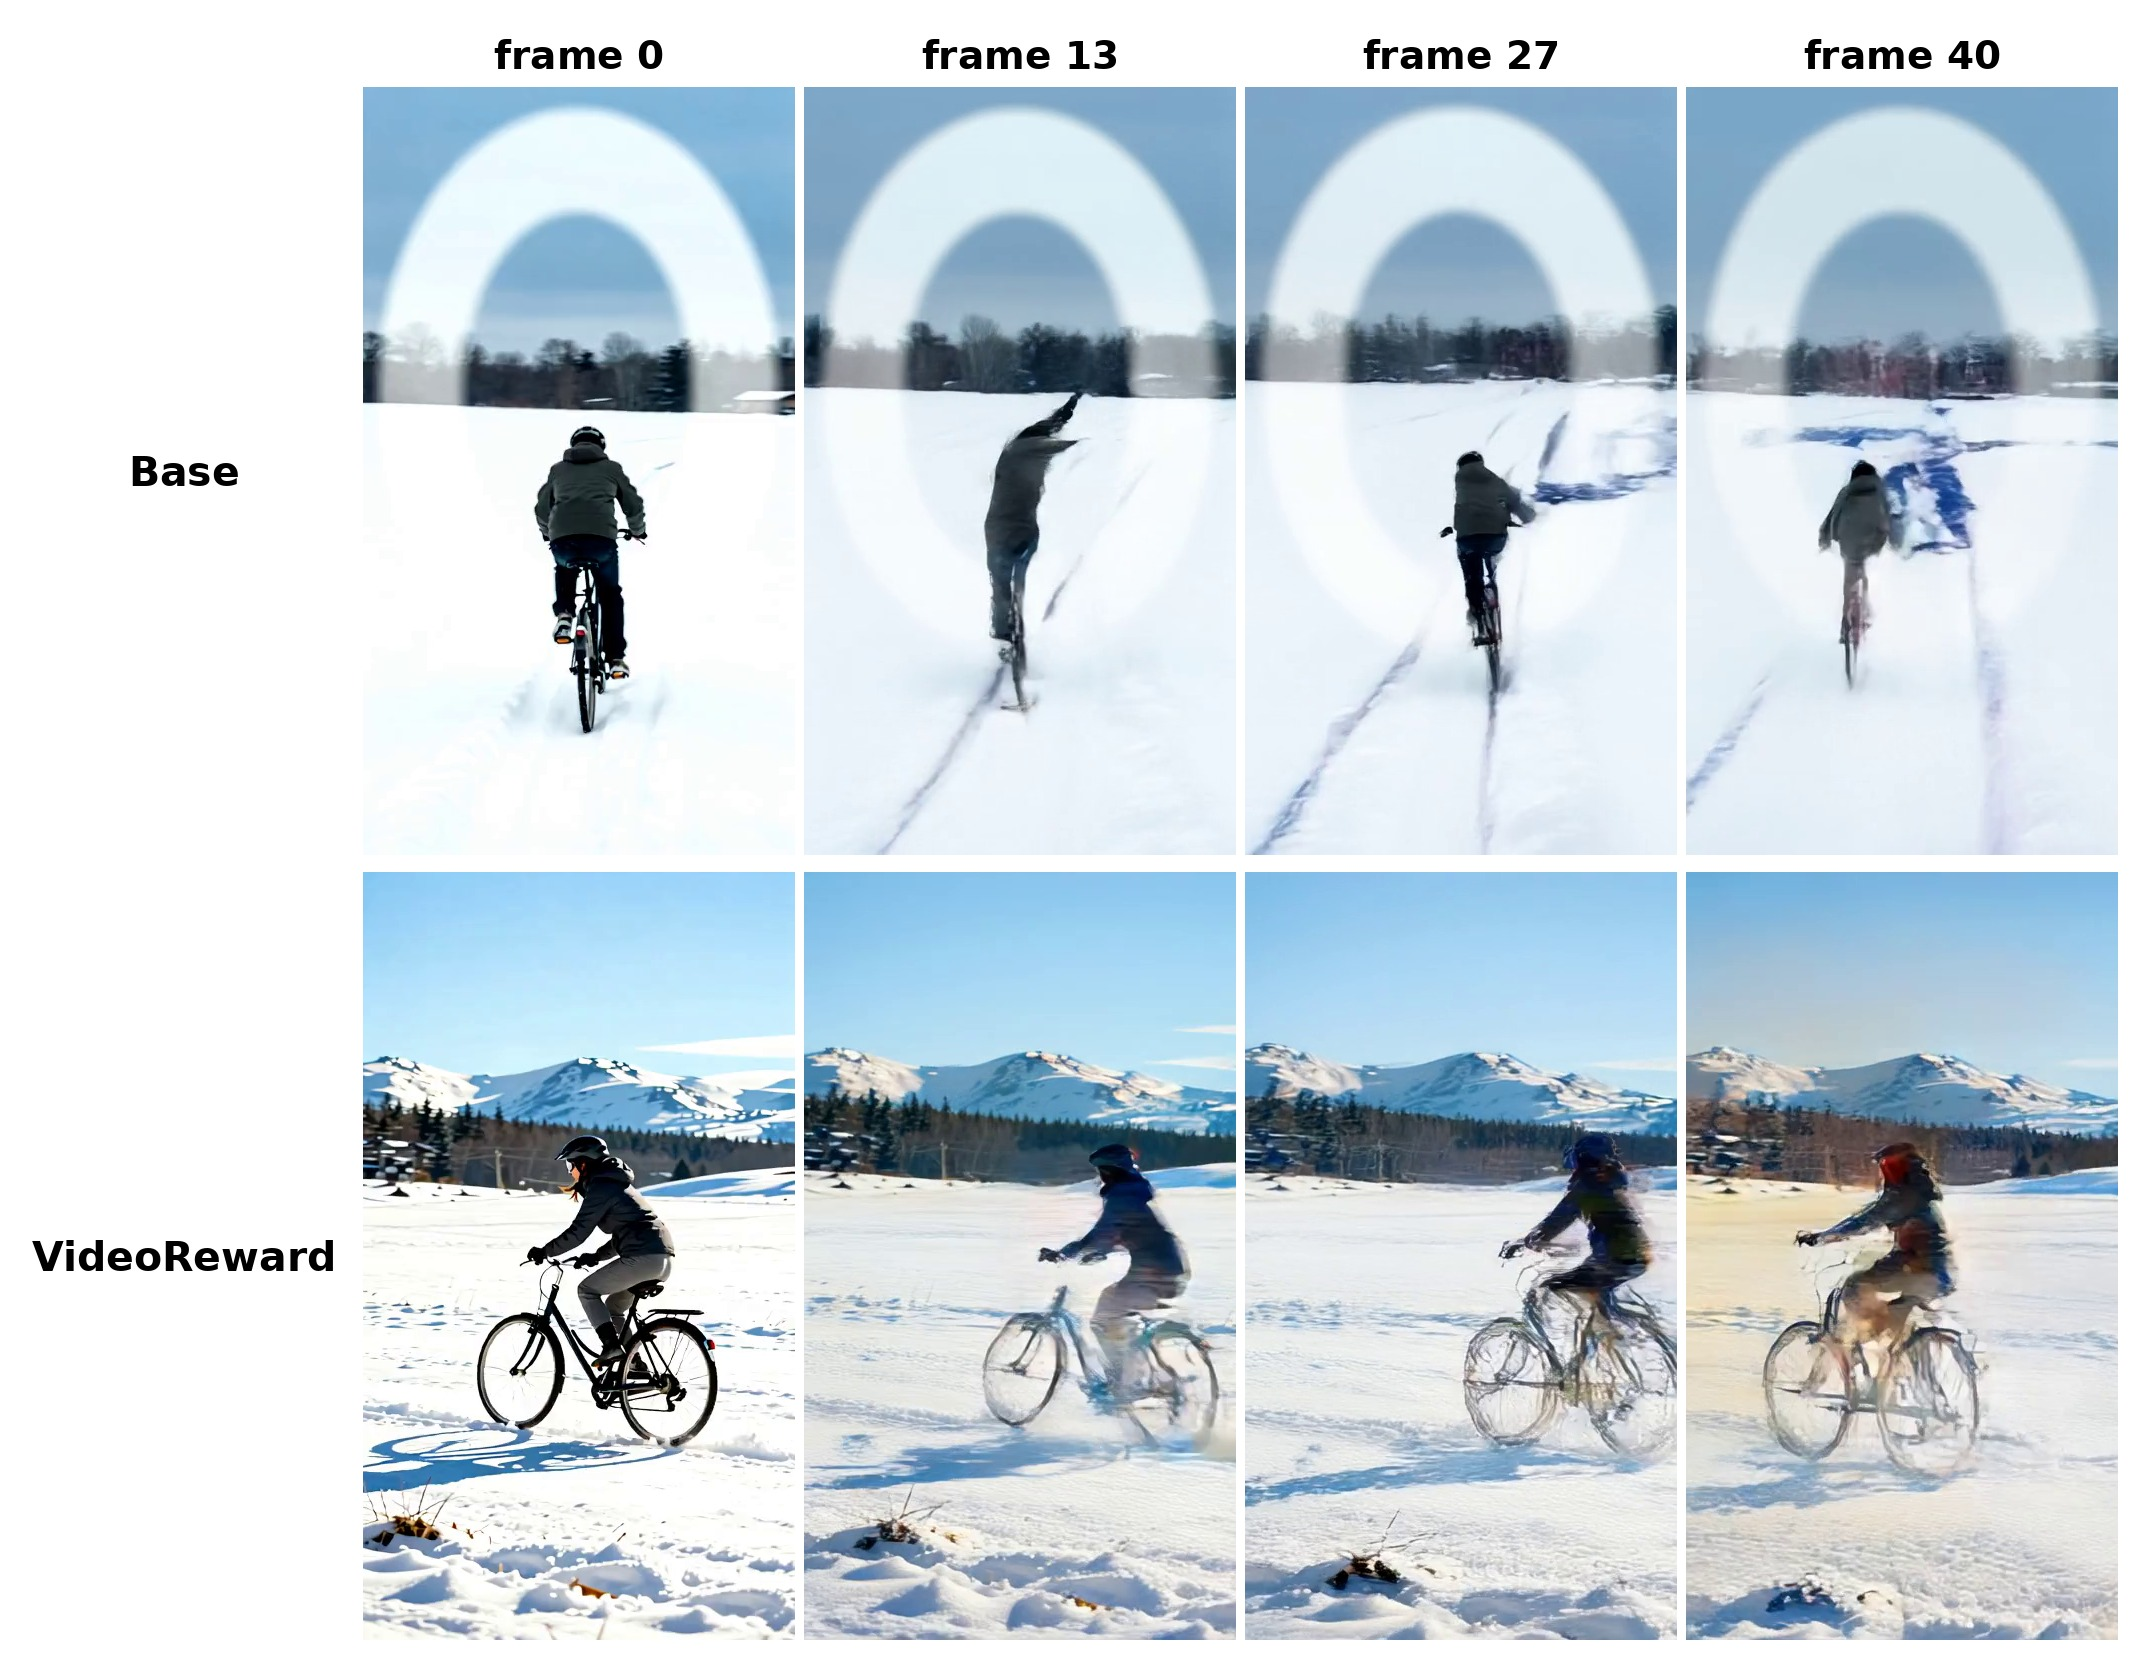
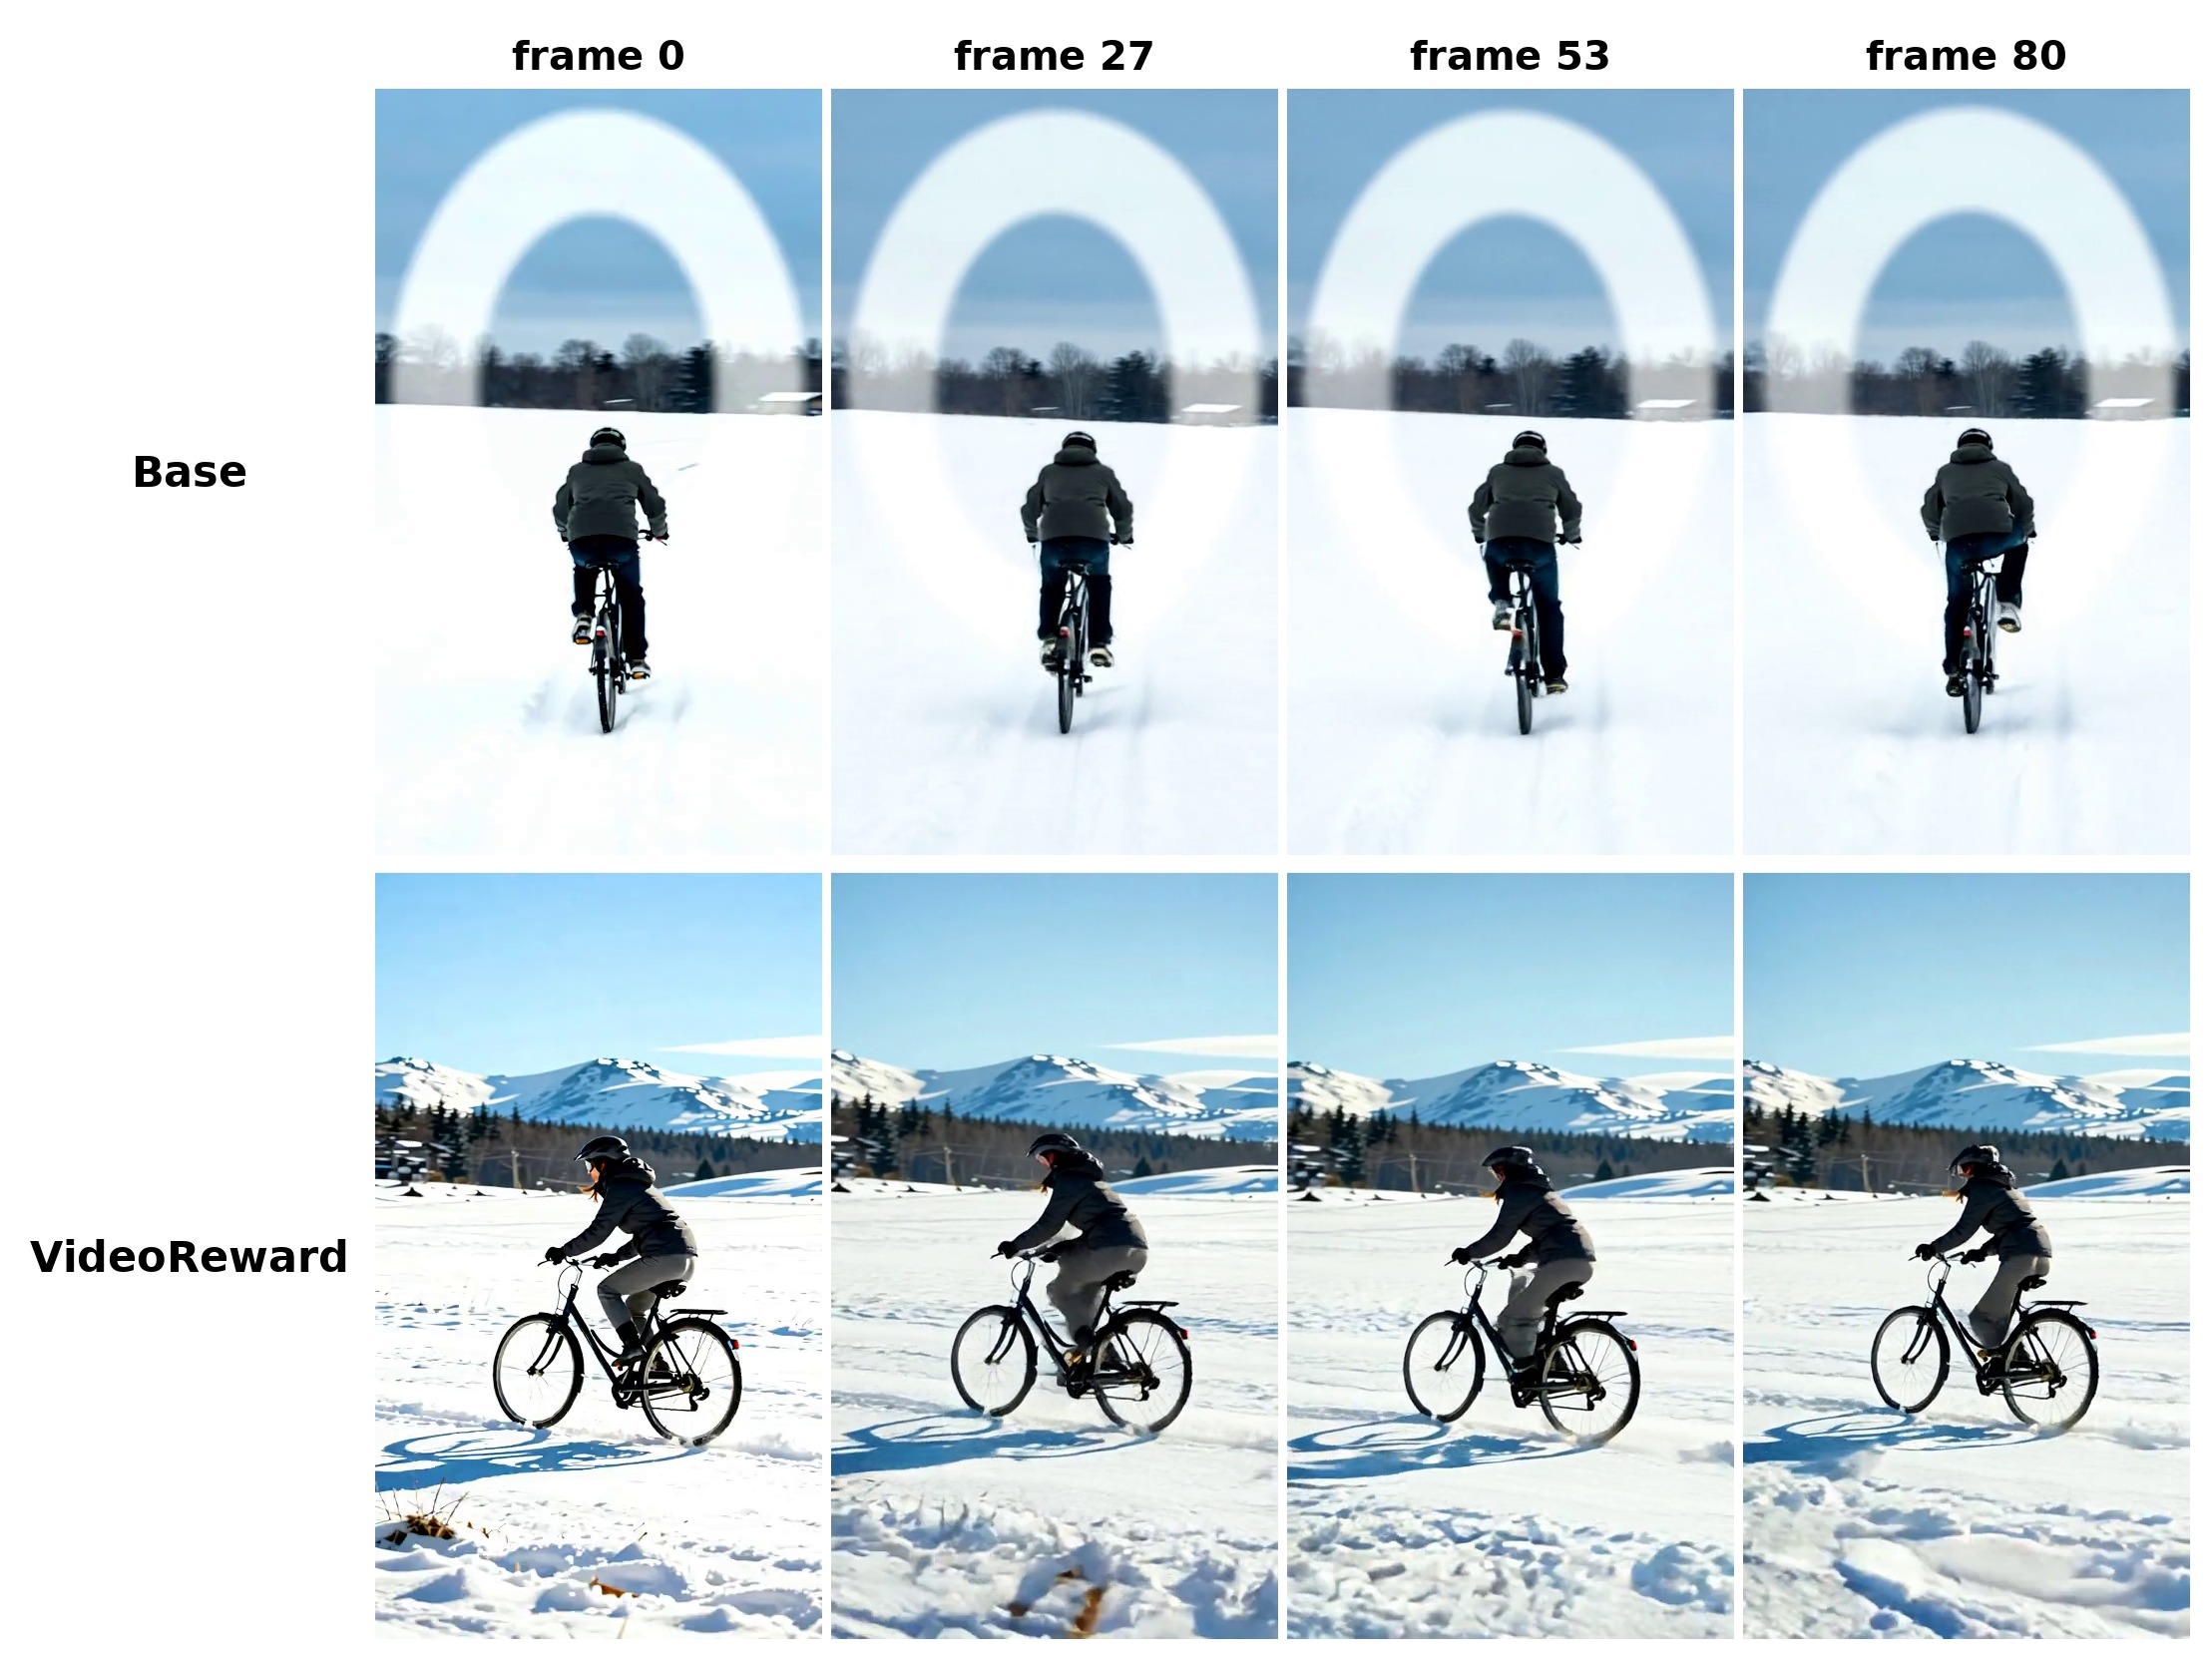
Swap demo CogVideoX to check_v5 seed-4096 run
Replace the cog_seed5 clips with the check_v5 CogVideoX seed-4096 run
(14 pairs, 448x768, 81 frames; frames sampled at 0/27/53/80). cog prompts
now sourced from base0_vr1_seed4096.json. LTX-Video / HunyuanVideo unchanged.

diff --git a/index.html b/index.html
@@ -37,14 +37,14 @@ The exact frame index is printed above each column. Frames are shown at native r
 <div class="toc"><b>Backbones:</b> <a href="#cog">CogVideoX</a> <a href="#ltx">LTX-Video</a> <a href="#hy">HunyuanVideo</a></div>
 <h2 id="cog">CogVideoX <span class="sub">&middot; 14 prompts</span></h2>
 <section class="item">
+  <div class="row-id">CogVideoX &middot; dyn_004</div>
+  <div class="prompt">A person walks forward through a snowstorm, stepping with the right foot followed by the left in a steady rhythm while both arms swing forward and back. After three steps, they pause briefly, lift their left hand to brush snow from their right shoulder, then lower the hand and continue walking forward. Their head turns slightly to the right, holds the gaze for a moment, then returns to facing forward. The camera tracks slowly behind the subject, keeping the person centered in the frame.</div>
+  <img class="strip" src="frames/cog__dyn_004.jpg" alt="CogVideoX &middot; dyn_004 frame strip" loading="lazy">
+</section>
+<section class="item">
   <div class="row-id">CogVideoX &middot; dyn_008</div>
   <div class="prompt">A rider pedals a bicycle forward through a flat snowy field. Over five seconds, the right foot pushes the pedal downward and back while the left foot pulls upward in a continuous circular rhythm. Both hands grip the handlebars firmly, fingers wrapped around the grips, keeping the wrists straight and elbows slightly bent. The torso leans forward at a consistent angle, shifting weight slightly left and right with each pedal stroke. The head remains level, gaze fixed straight ahead. The bicycle frame stays upright, and the rear wheel rotates continuously, displacing a thin layer of snow that trails behind the tire. The camera tracks parallel to the bicycle at a steady pace.</div>
   <img class="strip" src="frames/cog__dyn_008.jpg" alt="CogVideoX &middot; dyn_008 frame strip" loading="lazy">
-</section>
-<section class="item">
-  <div class="row-id">CogVideoX &middot; dyn_014</div>
-  <div class="prompt">The car begins stationary on a flat paved surface. The rear wheels start rotating forward, increasing rotational speed over the first two seconds. The rear suspension compresses slightly and the chassis tilts backward. The tires grip the road, propelling the vehicle forward in a straight line. The front wheels roll smoothly while the rear wheels continue spinning rapidly. The car advances approximately two car lengths, reaching a higher steady speed by the end. The camera pans steadily to the right, tracking the vehicle’s forward motion.</div>
-  <img class="strip" src="frames/cog__dyn_014.jpg" alt="CogVideoX &middot; dyn_014 frame strip" loading="lazy">
 </section>
 <section class="item">
   <div class="row-id">CogVideoX &middot; dyn_016</div>
@@ -52,39 +52,24 @@ The exact frame index is printed above each column. Frames are shown at native r
   <img class="strip" src="frames/cog__dyn_016.jpg" alt="CogVideoX &middot; dyn_016 frame strip" loading="lazy">
 </section>
 <section class="item">
-  <div class="row-id">CogVideoX &middot; dyn_018</div>
-  <div class="prompt">The rider grips the handlebars with both hands, keeping the elbows slightly bent as the motorcycle moves forward across the flat snowy terrain. The front wheel rotates continuously while the rear tire compresses the snow, pushing a steady trail behind. The rider shifts their torso weight slightly to the right, turns the handlebars once to steer around a small snow bump, then straightens the arms and returns the grip to center. The rider’s head turns briefly to check the path ahead before looking forward again, maintaining a steady posture as the motorcycle continues its forward motion. The camera tracks parallel from the left side to keep the subject centered.</div>
-  <img class="strip" src="frames/cog__dyn_018.jpg" alt="CogVideoX &middot; dyn_018 frame strip" loading="lazy">
+  <div class="row-id">CogVideoX &middot; dyn_021</div>
+  <div class="prompt">The airplane accelerates forward along the runway, its wheels rolling steadily. At the two-second mark, the nose lifts upward at a steady angle, followed by the main landing gear leaving the ground. The fuselage continues to rise, tilting its left wing slightly downward and right wing upward as it begins a shallow climb. A slow upward camera tilt tracks the ascent, keeping the aircraft centered in the frame until the wheels are fully clear of the runway.</div>
+  <img class="strip" src="frames/cog__dyn_021.jpg" alt="CogVideoX &middot; dyn_021 frame strip" loading="lazy">
 </section>
 <section class="item">
-  <div class="row-id">CogVideoX &middot; dyn_020</div>
-  <div class="prompt">The airplane flies forward at a steady altitude, tilting its right wing downward and left wing upward to execute a gentle left bank. It holds the banked position for two seconds while the ailerons make minor adjustments, then levels the wings and continues straight ahead. The camera tracks steadily from a low angle, keeping the aircraft centered throughout the maneuver.</div>
-  <img class="strip" src="frames/cog__dyn_020.jpg" alt="CogVideoX &middot; dyn_020 frame strip" loading="lazy">
+  <div class="row-id">CogVideoX &middot; dyn_040</div>
+  <div class="prompt">A bird flies forward over a snow-covered forest canopy, flapping both wings upward and downward three times in a steady rhythm. It tilts its torso slightly to the left, adjusts its tail feathers to steer, then levels its posture and extends both wings into a continuous glide. The bird maintains a consistent altitude above the tree line, drifting steadily toward the right side of the frame before the shot ends.</div>
+  <img class="strip" src="frames/cog__dyn_040.jpg" alt="CogVideoX &middot; dyn_040 frame strip" loading="lazy">
 </section>
 <section class="item">
-  <div class="row-id">CogVideoX &middot; dyn_029</div>
-  <div class="prompt">The train’s large driving wheels begin rotating along the steel rails at a moderate pace. Over the first two seconds, the wheel rotation increases in frequency, pushing the locomotive’s chassis forward past three evenly spaced track joints. From seconds two to four, the wheels spin faster, displacing a thin layer of gravel dust while the front carriage advances continuously. In the final second, the train sustains a higher forward velocity, the wheels rotating rapidly and the background scenery shifting past at an increased rate. The camera remains fixed at track level, keeping the lower chassis and driving wheels centered as the forward motion progresses.</div>
-  <img class="strip" src="frames/cog__dyn_029.jpg" alt="CogVideoX &middot; dyn_029 frame strip" loading="lazy">
+  <div class="row-id">CogVideoX &middot; dyn_043</div>
+  <div class="prompt">The cat crouches low over a shallow water bowl with its front paws planted firmly on the ground. It lowers its head forward, extending its neck until its muzzle contacts the water surface. The cat then laps the water three times in a steady rhythm, retracting its head slightly upward after each dip before lowering it again. After the third lap, it lifts its head straight up, shakes its muzzle once to clear droplets, and returns to a resting crouch with its front paws aligned forward. The camera holds a static frame throughout.</div>
+  <img class="strip" src="frames/cog__dyn_043.jpg" alt="CogVideoX &middot; dyn_043 frame strip" loading="lazy">
 </section>
 <section class="item">
-  <div class="row-id">CogVideoX &middot; dyn_033</div>
-  <div class="prompt">The truck travels forward along a straight road surface, then gradually decelerates as the wheels rotate more slowly. The chassis settles downward slightly while the vehicle continues braking in a straight line, eventually coming to a complete halt with all wheels ceasing rotation. The truck holds the stationary position for the remainder of the shot. The camera remains fixed on the front three-quarter view throughout the sequence.</div>
-  <img class="strip" src="frames/cog__dyn_033.jpg" alt="CogVideoX &middot; dyn_033 frame strip" loading="lazy">
-</section>
-<section class="item">
-  <div class="row-id">CogVideoX &middot; dyn_036</div>
-  <div class="prompt">The boat travels forward across the water, leaving a steady wake behind its hull. Over the first two seconds, the vessel gradually reduces forward momentum as the wake narrows and the bow settles slightly lower into the water. The deceleration continues steadily, with the water around the sides becoming calm and the hull&#x27;s movement noticeably diminishing. In the final two seconds, the boat slows to a near standstill and comes to a complete halt, floating evenly with only minor drift. A slow, slight forward tracking shot follows the hull until it stops.</div>
-  <img class="strip" src="frames/cog__dyn_036.jpg" alt="CogVideoX &middot; dyn_036 frame strip" loading="lazy">
-</section>
-<section class="item">
-  <div class="row-id">CogVideoX &middot; dyn_048</div>
-  <div class="prompt">A dog runs forward, lifting its front paws and hind legs in a steady alternating rhythm while swinging its tail left and right twice per stride. The head stays level, ears flapping slightly backward, and the shoulders move forward and back in sync with the leg motion. After two seconds, the dog tilts its head downward, turns its torso slightly left, and adjusts its stride to continue running forward until the five-second mark. The camera pans slowly to the right to follow the movement.</div>
-  <img class="strip" src="frames/cog__dyn_048.jpg" alt="CogVideoX &middot; dyn_048 frame strip" loading="lazy">
-</section>
-<section class="item">
-  <div class="row-id">CogVideoX &middot; dyn_049</div>
-  <div class="prompt">The horse stands at the riverbank, bends its front knees, and lowers its head and neck downward toward the water surface. Its muzzle touches the water, opens its lips slightly to lap, and holds the drinking position for a moment. The horse then extends its neck upward in a continuous motion, lifts its muzzle clear of the surface, and straightens its front legs to return to a standing posture. The camera remains fixed on the subject throughout the sequence.</div>
-  <img class="strip" src="frames/cog__dyn_049.jpg" alt="CogVideoX &middot; dyn_049 frame strip" loading="lazy">
+  <div class="row-id">CogVideoX &middot; dyn_044</div>
+  <div class="prompt">A slow side-tracking shot follows a cat running forward across a flat surface, its front paws lifting and placing alternately while its hind legs push off the ground in a steady rhythm. The tail extends straight back and sways slightly left and right with each stride. The head remains level with ears facing forward and gaze fixed ahead. After three complete strides, the cat lowers its front legs into a brief crouch, immediately pushes off with its hind legs to resume the forward running motion, and continues at a consistent pace until the clip ends.</div>
+  <img class="strip" src="frames/cog__dyn_044.jpg" alt="CogVideoX &middot; dyn_044 frame strip" loading="lazy">
 </section>
 <section class="item">
   <div class="row-id">CogVideoX &middot; dyn_052</div>
@@ -92,19 +77,34 @@ The exact frame index is printed above each column. Frames are shown at native r
   <img class="strip" src="frames/cog__dyn_052.jpg" alt="CogVideoX &middot; dyn_052 frame strip" loading="lazy">
 </section>
 <section class="item">
-  <div class="row-id">CogVideoX &middot; dyn_053</div>
-  <div class="prompt">The sheep stands near the riverbank, then bends its front knees and lowers its torso. Its neck extends downward, tilting the head forward until the snout touches the water surface, creating small ripples. The sheep dips its head and lifts it twice in a steady rhythm, then pauses with the snout just above the water. Finally, the neck straightens, the head rises back to shoulder level, and the front legs extend to return the body to a standing posture.</div>
-  <img class="strip" src="frames/cog__dyn_053.jpg" alt="CogVideoX &middot; dyn_053 frame strip" loading="lazy">
+  <div class="row-id">CogVideoX &middot; dyn_056</div>
+  <div class="prompt">A cow stands at a riverbank with its front hooves planted. It slowly lowers its head and neck downward until its muzzle touches the water surface, then extends its tongue to lap the water three times in quick succession. After a one-second pause, the cow lifts its head upward and back to a standing position, then shakes its muzzle once before settling its ears forward. The camera holds a steady frame, keeping the cow and the waterline in view throughout the five-second sequence.</div>
+  <img class="strip" src="frames/cog__dyn_056.jpg" alt="CogVideoX &middot; dyn_056 frame strip" loading="lazy">
 </section>
 <section class="item">
-  <div class="row-id">CogVideoX &middot; dyn_063</div>
-  <div class="prompt">The bear stands on all fours, lifts its head upward, and tilts its snout to the left while flaring its nostrils twice. It holds the position briefly, then rotates its head to the right and takes three short, rapid inhales through its nose. The bear shifts its weight forward on its front paws, lowers its head slightly, continues to sniff the air with steady nostril movements, and returns to a neutral standing posture. The camera holds a static frame throughout the sequence.</div>
-  <img class="strip" src="frames/cog__dyn_063.jpg" alt="CogVideoX &middot; dyn_063 frame strip" loading="lazy">
+  <div class="row-id">CogVideoX &middot; dyn_058</div>
+  <div class="prompt">A cow runs forward across flat ground, its hooves striking the surface in a steady, alternating gallop. The cow’s head bobs slightly with each stride while its ears tilt forward. Its tail swishes left and right as it maintains pace. The cow angles its torso slightly to the right, continuing to run toward a stationary group of several cows positioned in the midground. It keeps a consistent forward motion throughout the sequence, gradually closing the distance to the herd without breaking stride, and the motion concludes with the cow still in mid-stride, now significantly closer to the group.</div>
+  <img class="strip" src="frames/cog__dyn_058.jpg" alt="CogVideoX &middot; dyn_058 frame strip" loading="lazy">
 </section>
 <section class="item">
-  <div class="row-id">CogVideoX &middot; dyn_071</div>
-  <div class="prompt">A giraffe gallops forward across flat terrain, its long legs moving in a steady rhythm. The neck extends forward, swaying slightly with each stride, while the head bobs downward and lifts in sync with the hoof strikes. As it runs, the giraffe turns its head to the right, fixing its gaze on a group of three other giraffes standing in the distance. It maintains a consistent pace, ears flicking forward, and gradually closes the gap. Over the final two seconds, it reduces its stride length, brings its front legs to a firm plant, and straightens its neck into a standing position beside the herd.</div>
-  <img class="strip" src="frames/cog__dyn_071.jpg" alt="CogVideoX &middot; dyn_071 frame strip" loading="lazy">
+  <div class="row-id">CogVideoX &middot; dyn_059</div>
+  <div class="prompt">The elephant stands facing slightly right, lifts its trunk upward and curls the tip backward over its shoulder, then releases a steady stream of water onto its back. It holds the spray for two seconds, lowers the trunk slightly to redirect the water toward its left flank, pauses briefly, and repeats the upward curl and spray motion once more before slowly lowering the trunk tip to the ground.</div>
+  <img class="strip" src="frames/cog__dyn_059.jpg" alt="CogVideoX &middot; dyn_059 frame strip" loading="lazy">
+</section>
+<section class="item">
+  <div class="row-id">CogVideoX &middot; dyn_061</div>
+  <div class="prompt">The elephant runs forward across open ground, its left and right legs alternating in a rapid sequence. With each stride, the trunk swings downward and forward, then lifts back toward the head. The ears flap outward and backward twice per step cycle. The head bobs downward with each foot impact, then returns to a level position. The gaze remains fixed toward a group of other elephants in the distance. As it closes the gap, the front legs extend further forward, and the shoulders lower slightly, maintaining a steady pace until it reaches the edge of the herd. The camera tracks steadily from a low side angle, keeping the elephant centered in the frame.</div>
+  <img class="strip" src="frames/cog__dyn_061.jpg" alt="CogVideoX &middot; dyn_061 frame strip" loading="lazy">
+</section>
+<section class="item">
+  <div class="row-id">CogVideoX &middot; dyn_064</div>
+  <div class="prompt">The bear grips the tree trunk with both front paws, pulling its torso upward while its hind legs push against the bark. It shifts its weight forward, lifting its left front paw to a higher branch, then follows with the right front paw. The bear extends its hind legs to match the height, repositioning its claws into the wood before repeating the upward limb sequence twice more. Its head tilts forward to locate the next branch, and it continues the steady climbing motion until it reaches a mid-level fork. The camera tilts upward slightly to follow the ascent.</div>
+  <img class="strip" src="frames/cog__dyn_064.jpg" alt="CogVideoX &middot; dyn_064 frame strip" loading="lazy">
+</section>
+<section class="item">
+  <div class="row-id">CogVideoX &middot; dyn_067</div>
+  <div class="prompt">A zebra runs forward across flat terrain, its front legs extending and pushing off while the hind legs drive backward in a steady gallop rhythm. The head bobs slightly upward and forward with each stride, ears facing ahead, and the tail sways left and right with the momentum. The zebra maintains this pace for three seconds, gradually closing the distance to a small herd visible in the mid-ground. It then shortens its stride, lifts its head higher, steps into the space beside the nearest herd member, and comes to a brief halt with all four hooves planted. The camera tracks steadily from a low side angle to follow the motion.</div>
+  <img class="strip" src="frames/cog__dyn_067.jpg" alt="CogVideoX &middot; dyn_067 frame strip" loading="lazy">
 </section>
 <h2 id="ltx">LTX-Video <span class="sub">&middot; 18 prompts</span></h2>
 <section class="item">

diff --git a/scripts/build_base_vr_frames.py b/scripts/build_base_vr_frames.py
@@ -12,11 +12,16 @@ PDIR   = os.path.join(ROOT, "propmt")
 WORK   = "/data_2/xujinyuan/vbench_check/base_vr_dyn_repo"
 OUTDIR = os.path.join(WORK, "frames")
 
-# (key, dir, friendly name)
+# cog was swapped to the check_v5 CogVideoX run (seed 4096; 14 pairs, 448x768, 81 frames).
+# Its videos live outside ROOT and its prompts come from a standalone eval JSON.
+COG_DIR  = "/data_2/xujinyuan/vbench_check/eval_check_v5_cogvideox/base0_vr1_videos/seed_4096"
+COG_JSON = "/data_2/xujinyuan/vbench_check/eval_check_v5_cogvideox/base0_vr1_seed4096.json"
+
+# (key, dir, friendly name). An absolute dir overrides ROOT (os.path.join drops ROOT).
 BACKBONES = [
-    ("cog", "cog_seed5",  "CogVideoX"),
-    ("ltx", "ltx_seed3",  "LTX-Video"),
-    ("hy",  "hy_seed42",  "HunyuanVideo"),
+    ("cog", COG_DIR,     "CogVideoX"),
+    ("ltx", "ltx_seed3", "LTX-Video"),
+    ("hy",  "hy_seed42", "HunyuanVideo"),
 ]
 VARIANTS = [("base", "Base"), ("vr", "VideoReward")]   # suffix, label
 FRACS = [0.0, 1.0/3.0, 2.0/3.0, 1.0]                   # equal time points
@@ -27,6 +32,13 @@ JPEG_Q = 92
 # proportions stay identical while pixels stay native-sharp.
 TW_REF = 200
 G0 = dict(GAPF=4, LBL=150, LBLGAP=8, HDR=30, GAPR=8, EDGE=10, FH=18, FL=19)
+
+def _load_cog_prompts():
+    d = json.load(open(COG_JSON))
+    rec = next(iter(d.values()))          # top-level key is the seed string
+    return {"dyn_%03d" % f["prompt"]: f["video_propmt"].strip() for f in rec["flips"]}
+
+COG_PROMPTS = _load_cog_prompts()
 
 def nframes(path):
     out = subprocess.run(["ffprobe", "-v", "error", "-count_frames",
@@ -59,6 +71,8 @@ def ctext(draw, cx, cy, txt, font, fill=(0, 0, 0)):
     draw.text((cx - (b[2]-b[0])/2, cy - (b[3]-b[1])/2 - b[1]), txt, font=font, fill=fill)
 
 def load_prompt(key, bdir, dyn, pj):
+    if key == "cog" and dyn in COG_PROMPTS:   # cog prompts come from the check_v5 eval JSON
+        return COG_PROMPTS[dyn]
     try:
         return pj[key]["prompts"][dyn].strip()
     except Exception: